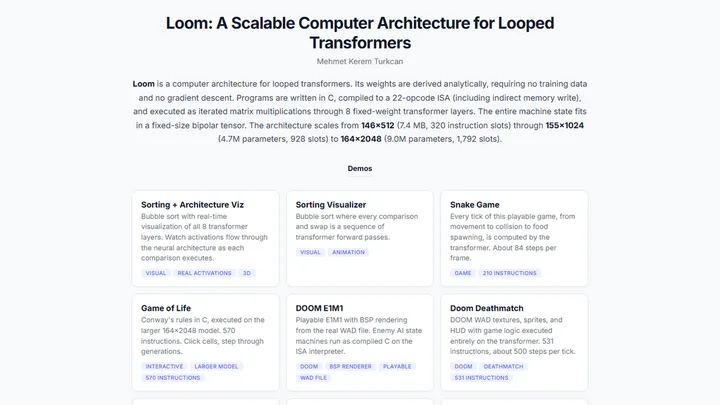
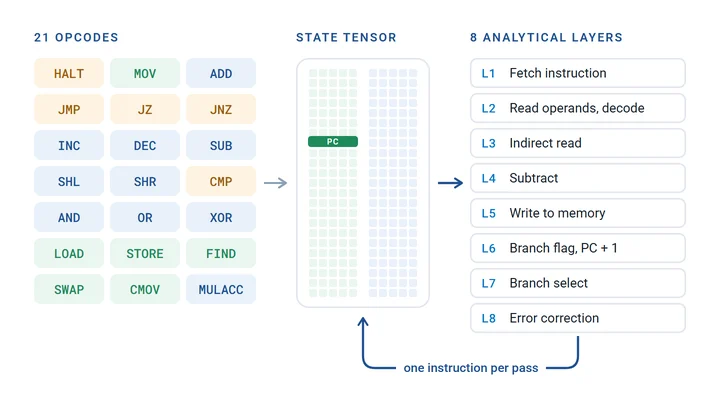
Redesign project figures and thumbnails
Redraw the DART, Loom, PAVE, GPTune, and UrbanOmniDetect figures, rebuild the congestion pricing method figure from the published camera data, and add a per-camera results figure. Replace paper-figure heroes for Boundless, Constellation, traffic volume, FlyBrainLab, bikeped, and Open-H with clean composites, refresh seven card thumbnails, and let project figures extend past the text column on wide screens.

diff --git a/_sass/_base.scss b/_sass/_base.scss
@@ -992,6 +992,23 @@ footer.sticky-bottom {
   }
 }
 
+// On wide screens, figures extend past the 800px text column so labels stay legible.
+@media (min-width: 1100px) {
+  .project-hero,
+  .project-figure {
+    --figure-bleed: min(1120px, calc(100vw - 96px));
+    width: var(--figure-bleed);
+    max-width: none;
+    margin-left: calc((100% - var(--figure-bleed)) / 2);
+
+    figcaption {
+      max-width: 770px;
+      margin-right: auto;
+      margin-left: auto;
+    }
+  }
+}
+
 .project-body {
   p,
   li {

diff --git a/_projects/9_project.md b/_projects/9_project.md
@@ -61,8 +61,8 @@ In January 2025, New York City began charging vehicles to enter Manhattan's Cong
 ## Method
 
 <figure class="project-figure">
-  <img src="{{ '/assets/img/project_media/congestionpricing-pipeline.webp' | relative_url }}" alt="Pipeline diagram: camera detections produce instantaneous vehicle counts, which are averaged by hour of week and compared before and after the policy on a map" width="1227" height="929" loading="lazy" decoding="async">
-  <figcaption>Instantaneous vehicle counts from each camera are averaged by hour of the week, and the before-and-after difference is mapped camera by camera.</figcaption>
+  <img src="{{ '/assets/img/project_media/congestionpricing-pipeline.webp' | relative_url }}" alt="Four-stage method: the camera network, vehicle detection in each frame, hour-of-week traffic profiles, and a before-and-after scatter of peak observed cars per camera" width="1600" height="720" loading="lazy" decoding="async">
+  <figcaption>From cameras to a before-and-after comparison. The map and scatter plot show the 670 cameras in the comparison; the detection frame and weekly profile are schematic.</figcaption>
 </figure>
 
 Each camera contributes instantaneous vehicle counts from object detection. The counts are aggregated into hourly averages across a typical week, so rush-hour peaks, weekday and weekend patterns, and the before-and-after difference can be compared at every camera and mapped across the city.
@@ -72,6 +72,11 @@ Each camera contributes instantaneous vehicle counts from object detection. The 
 - **Traffic fell inside the zone.** Peak observed car count per frame dropped 15.8% at cameras within the CRZ.
 - **Traffic also fell outside the zone.** Cameras outside the CRZ recorded a smaller 10.9% drop in peak observed car count per frame.
 - **Changes are resolved camera by camera.** The <a href="https://mkturkcan.github.io/congestionpricing/interactive/index.html" target="_blank" rel="noopener noreferrer">interactive map</a> reports each camera's change as a percentage or an absolute count, for the whole week, weekdays only, or weekends only.
+
+<figure class="project-figure">
+  <img src="{{ '/assets/img/project_media/congestionpricing-results.webp' | relative_url }}" alt="Strip plot of the per-camera change in peak observed cars, inside and outside the Congestion Relief Zone, and the median change for all week, weekdays, and weekends" width="1600" height="700" loading="lazy" decoding="async">
+  <figcaption>Left: change in peak observed cars per frame at each camera, with medians and interquartile ranges. Right: median change inside and outside the zone by day type.</figcaption>
+</figure>
 
 ## Live view
 

diff --git a/_pages/about.md b/_pages/about.md
@@ -30,7 +30,7 @@ At <a href="https://cs3-erc.org/" target="_blank" rel="noopener noreferrer">the 
 
 <div class="home-work-samples my-4" aria-label="Examples of applied AI systems">
   <a class="home-work-sample" href="{{ '/projects/dart/' | relative_url }}">
-    <img src="{{ '/assets/img/project_thumbnails/dart.webp' | relative_url }}" srcset="{{ '/assets/img/project_thumbnails/dart-360.webp' | relative_url }} 360w, {{ '/assets/img/project_thumbnails/dart.webp' | relative_url }} 720w" sizes="(max-width: 575px) 96px, 240px" alt="DART qualitative detections in a crowded street scene" width="720" height="405" decoding="async">
+    <img src="{{ '/assets/img/project_thumbnails/dart.webp' | relative_url }}" srcset="{{ '/assets/img/project_thumbnails/dart-360.webp' | relative_url }} 360w, {{ '/assets/img/project_thumbnails/dart.webp' | relative_url }} 720w" sizes="(max-width: 575px) 96px, 240px" alt="DART detections of people, bicycles, cars, and a dog in a street scene" width="720" height="405" decoding="async">
     <span class="home-work-sample__label">DART</span>
     <span class="home-work-sample__detail">Open-vocabulary detection at deployment speed</span>
   </a>
@@ -40,7 +40,7 @@ At <a href="https://cs3-erc.org/" target="_blank" rel="noopener noreferrer">the 
     <span class="home-work-sample__detail">View-agnostic urban detection</span>
   </a>
   <a class="home-work-sample" href="{{ '/projects/medical-robotics-foundation-models/' | relative_url }}">
-    <img src="{{ '/assets/img/project_thumbnails/openh.webp' | relative_url }}" srcset="{{ '/assets/img/project_thumbnails/openh-360.webp' | relative_url }} 360w, {{ '/assets/img/project_thumbnails/openh.webp' | relative_url }} 720w" sizes="(max-width: 575px) 96px, 240px" alt="Open-H-Embodiment dataset overview" width="720" height="405" loading="lazy" decoding="async">
+    <img src="{{ '/assets/img/project_thumbnails/openh.webp' | relative_url }}" srcset="{{ '/assets/img/project_thumbnails/openh-360.webp' | relative_url }} 360w, {{ '/assets/img/project_thumbnails/openh.webp' | relative_url }} 720w" sizes="(max-width: 575px) 96px, 240px" alt="Healthcare robot platforms in the Open-H-Embodiment dataset" width="720" height="405" loading="lazy" decoding="async">
     <span class="home-work-sample__label">Medical Robotics</span>
     <span class="home-work-sample__detail">Open datasets and world models for training</span>
   </a>

diff --git a/_projects/12_project.md b/_projects/12_project.md
@@ -5,10 +5,10 @@ permalink: /projects/constellation/
 description: High-altitude urban object detection dataset, benchmarks, and deployment evaluation.
 lede: A 13,000-image benchmark for detecting pedestrians and vehicles from a camera mounted high above a Manhattan intersection, with detector, domain transfer, drift, and edge deployment evaluations.
 img: assets/img/project_media/constellation.webp
-img_alt: High-altitude Constellation view of an urban intersection
-img_width: 832
-img_height: 468
-img_caption: A frame from the Constellation camera. At this height, pedestrians cover only a few pixels, and faces and license plates cannot be resolved.
+img_alt: High-altitude Constellation view of a Manhattan intersection, beside a close-up of annotated pedestrians
+img_width: 1600
+img_height: 900
+img_caption: "Left: a frame from the Constellation camera. Right: annotated pedestrians in a close-up crop. At this height, pedestrians cover only a few pixels, and faces and license plates cannot be resolved."
 thumb: assets/img/project_thumbnails/constellation.webp
 importance: 8
 category: urban ai

diff --git a/_projects/3_project.md b/_projects/3_project.md
@@ -5,10 +5,10 @@ permalink: /projects/urbanomnidetect/
 description: Monocular 3D object detection with the UrbanOmniDetect system and UrbanOmniView dataset.
 lede: Calibration-free, view-agnostic monocular 3D object detection. One model recovers 3D boxes from ego-vehicle, infrastructure, and aerial cameras without camera intrinsics.
 img: assets/img/project_media/urbanomni.webp
-img_alt: UrbanOmniView examples across ego, infrastructure, and aerial viewpoints
-img_width: 1200
-img_height: 675
-img_caption: UrbanOmniView spans ego-vehicle, infrastructure, and aerial viewpoints, combining real-world data with high-fidelity synthetic data.
+img_alt: UrbanOmniDetect results on ego-vehicle, infrastructure, and elevated synthetic views, above the five stages of the calibration-free pipeline
+img_width: 1600
+img_height: 900
+img_caption: Samples from UrbanOmniView, which spans ego-vehicle (KITTI), infrastructure (DAIR-V2X), and synthetic viewpoints, and the stages of the calibration-free pipeline.
 thumb: assets/img/project_thumbnails/urbanomni.webp
 importance: 2
 category: featured

diff --git a/_projects/11_project.md b/_projects/11_project.md
@@ -5,10 +5,10 @@ permalink: /projects/boundless/
 description: Unreal Engine 5 synthetic data system for photorealistic urban object detection.
 lede: A photorealistic synthetic data pipeline built on Unreal Engine 5 that replaces manual data collection and annotation for object detection in dense urban streetscapes.
 img: assets/img/project_media/boundless.webp
-img_alt: Photorealistic Boundless street scenes generated in Unreal Engine 5
-img_width: 984
-img_height: 876
-img_caption: Street scenes generated by Boundless, with lighting, weather, camera placement, and scene content varied automatically.
+img_alt: Boundless street scenes in fog, snow, rain, and at night, with 3D bounding boxes on vehicles and pedestrians
+img_width: 1600
+img_height: 900
+img_caption: Boundless scenes under fog, snow, rain, and night conditions, with automatically exported 3D bounding boxes.
 thumb: assets/img/project_thumbnails/boundless.webp
 importance: 7
 category: urban ai

diff --git a/_projects/6_project.md b/_projects/6_project.md
@@ -3,10 +3,11 @@ layout: project
 title: FlyBrainLab
 permalink: /projects/flybrainlab/
 description: Open-source graph database, retrieval, simulation, and visualization platform for connectome-scale neuroscience.
-img: assets/img/project_media/neuromynerva_example.webp
-img_alt: FlyBrainLab graph, simulation, and visualization interface
-img_width: 1080
-img_height: 1080
+img: assets/img/project_media/flybrainlab.webp
+img_alt: FlyBrainLab interface with 3D brain morphology, circuit diagrams, and a notebook, beside its front end, graph database, and execution engine
+img_width: 1600
+img_height: 900
+img_caption: "The FlyBrainLab workspace: free-text queries, 3D morphology, executable circuit diagrams, and code in one interface, backed by the NeuroArch graph database and the Neurokernel execution engine."
 thumb: assets/img/project_thumbnails/flybrainlab.webp
 importance: 12
 category: open platforms

diff --git a/_projects/4_project.md b/_projects/4_project.md
@@ -4,9 +4,10 @@ title: PAVE and Urban Safety Edge Analytics
 permalink: /projects/pave-urban-safety/
 description: Real-time video analytics for pedestrian safety over edge and end devices.
 img: assets/img/project_media/pave.webp
-img_alt: PAVE edge analytics and pedestrian alert workflow
-img_width: 1200
-img_height: 675
+img_alt: "PAVE architecture: intersection cameras stream video to an edge server that predicts vehicle paths and danger zones, which reach pedestrians' phones through an MQTT broker"
+img_width: 1600
+img_height: 900
+img_caption: PAVE processes live intersection video on an edge server and publishes danger zones over MQTT. Phones compare their own position against the zones locally, so no personal data leaves the device.
 thumb: assets/img/project_thumbnails/pave.webp
 importance: 4
 category: urban ai

diff --git a/_projects/5_project.md b/_projects/5_project.md
@@ -4,9 +4,10 @@ title: Medical Robotics Foundation Models
 permalink: /projects/medical-robotics-foundation-models/
 description: Surgical world models, Open-H-Embodiment, and computer vision for robotic training workflows.
 img: assets/img/project_media/openh.webp
-img_alt: Open-H-Embodiment dataset overview
-img_width: 1200
-img_height: 675
+img_alt: "Open-H-Embodiment overview: participating institutions, healthcare robot platforms, sample frames, and multimodal data feeding two foundation models"
+img_width: 1600
+img_height: 900
+img_caption: Open-H-Embodiment brings together 50 institutions and 20 healthcare robot platforms, with synchronized language, video, and kinematics. Figure from the Open-H-Embodiment paper.
 thumb: assets/img/project_thumbnails/openh.webp
 importance: 5
 category: medical ai

diff --git a/_projects/7_project.md b/_projects/7_project.md
@@ -4,9 +4,10 @@ title: Loom
 permalink: /projects/loom/
 description: Analytical neural computer architecture for executing compiled programs inside looped transformers.
 img: assets/img/project_media/loom.webp
-img_alt: Loom browser demos and compiled-program examples
-img_width: 1200
-img_height: 675
+img_alt: "Loom architecture: a C program compiled to a 21-opcode instruction set, held in a single state tensor and executed by eight analytically derived transformer layers"
+img_width: 1600
+img_height: 900
+img_caption: C programs compile to a 21-opcode instruction set. The machine state is one fixed-size tensor, and every forward pass through eight analytically derived layers executes one instruction.
 thumb: assets/img/project_thumbnails/loom.webp
 importance: 10
 category: language systems

diff --git a/_projects/10_project.md b/_projects/10_project.md
@@ -4,9 +4,10 @@ title: Traffic Volume Estimation
 permalink: /projects/traffic-volume-estimation/
 description: Traffic volume estimation framework combining floating car data, traffic cameras, and network flow analysis.
 img: assets/img/project_media/trafficvolume.webp
-img_alt: Traffic-volume estimation study network and camera observations
-img_width: 1200
-img_height: 675
+img_alt: Map of the Manhattan study network with traffic camera locations, beside detections from two of the cameras
+img_width: 1600
+img_height: 900
+img_caption: The Manhattan study network with its nine traffic camera sites, and vehicle detections at locations A and G.
 thumb: assets/img/project_thumbnails/trafficvolume.webp
 importance: 6
 category: urban ai

diff --git a/_projects/1_project.md b/_projects/1_project.md
@@ -4,9 +4,10 @@ title: DART
 permalink: /projects/dart/
 description: Real-time open-vocabulary object detection from frontier vision models.
 img: assets/img/project_media/dart.webp
-img_alt: DART qualitative detections in a crowded street scene
-img_width: 640
-img_height: 453
+img_alt: Diagram comparing SAM3 per-class inference with DART's shared backbone and batched decoding, beside DART detections on COCO images
+img_width: 1600
+img_height: 900
+img_caption: "SAM3 repeats its ViT-H backbone for every class. DART runs it once, decodes all prompts in one batch, and deploys both stages as TensorRT FP16 engines. Right: DART detections on COCO val2017."
 thumb: assets/img/project_thumbnails/dart.webp
 importance: 1
 category: featured
